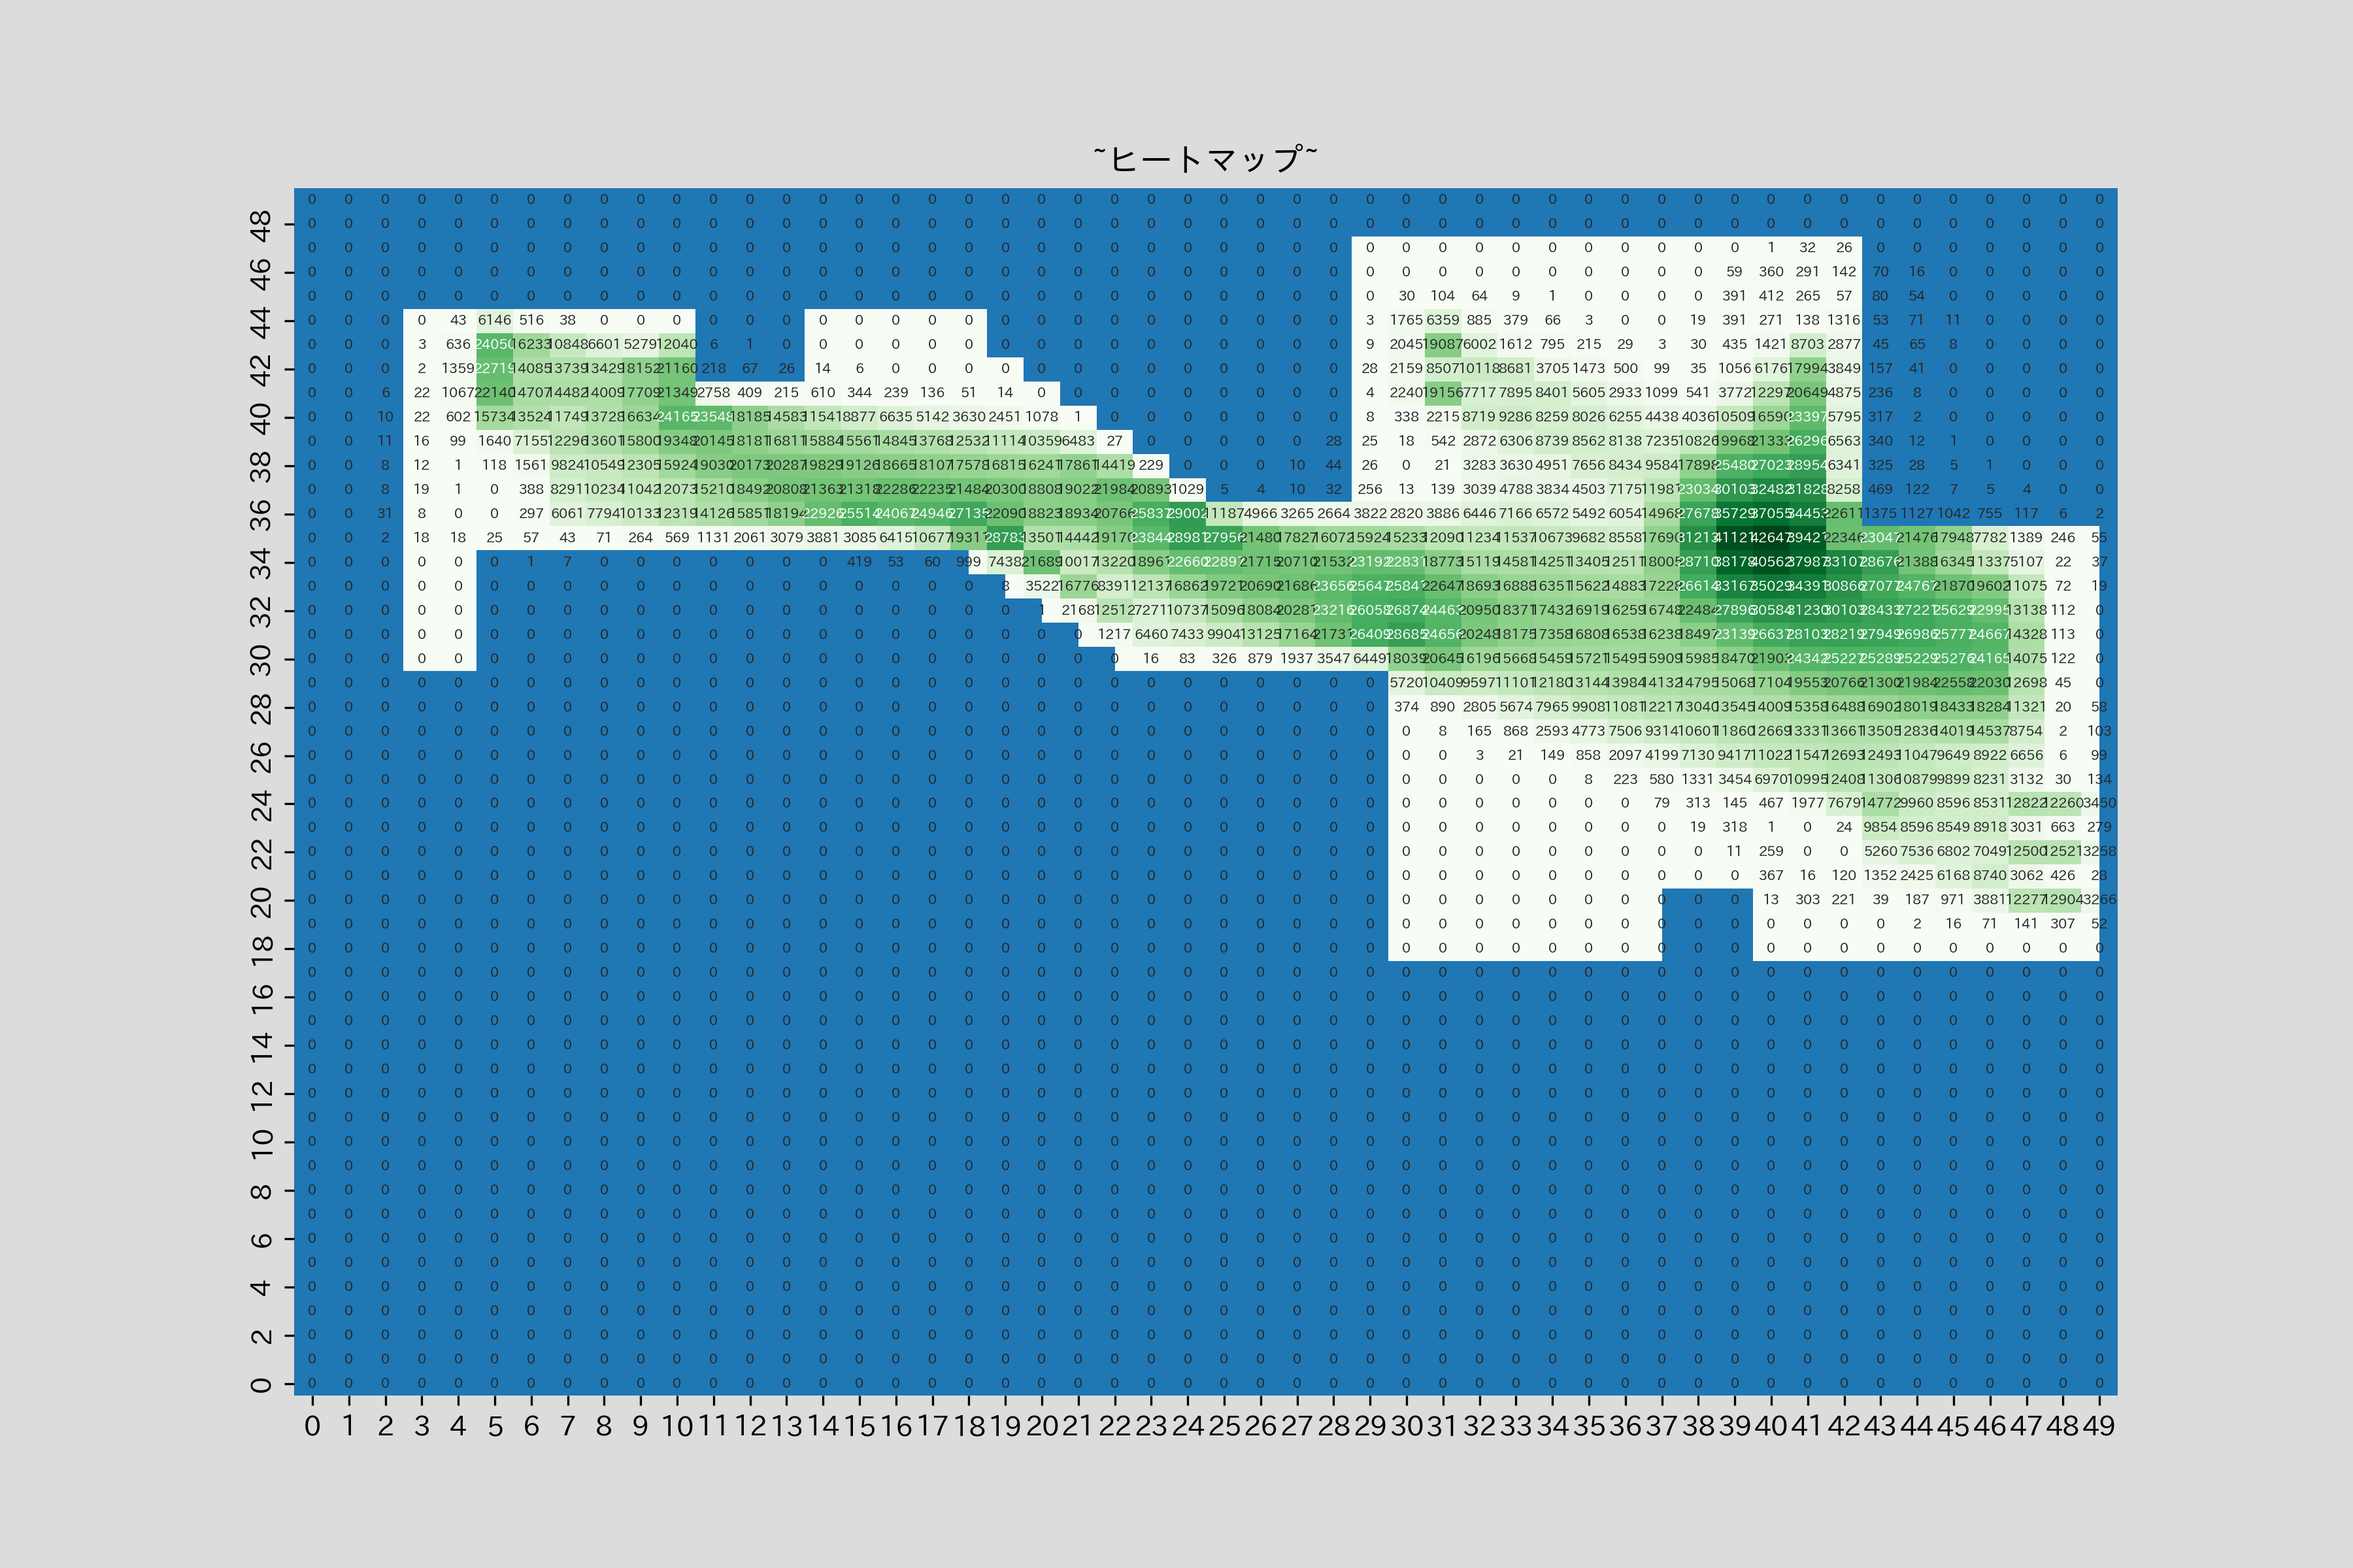
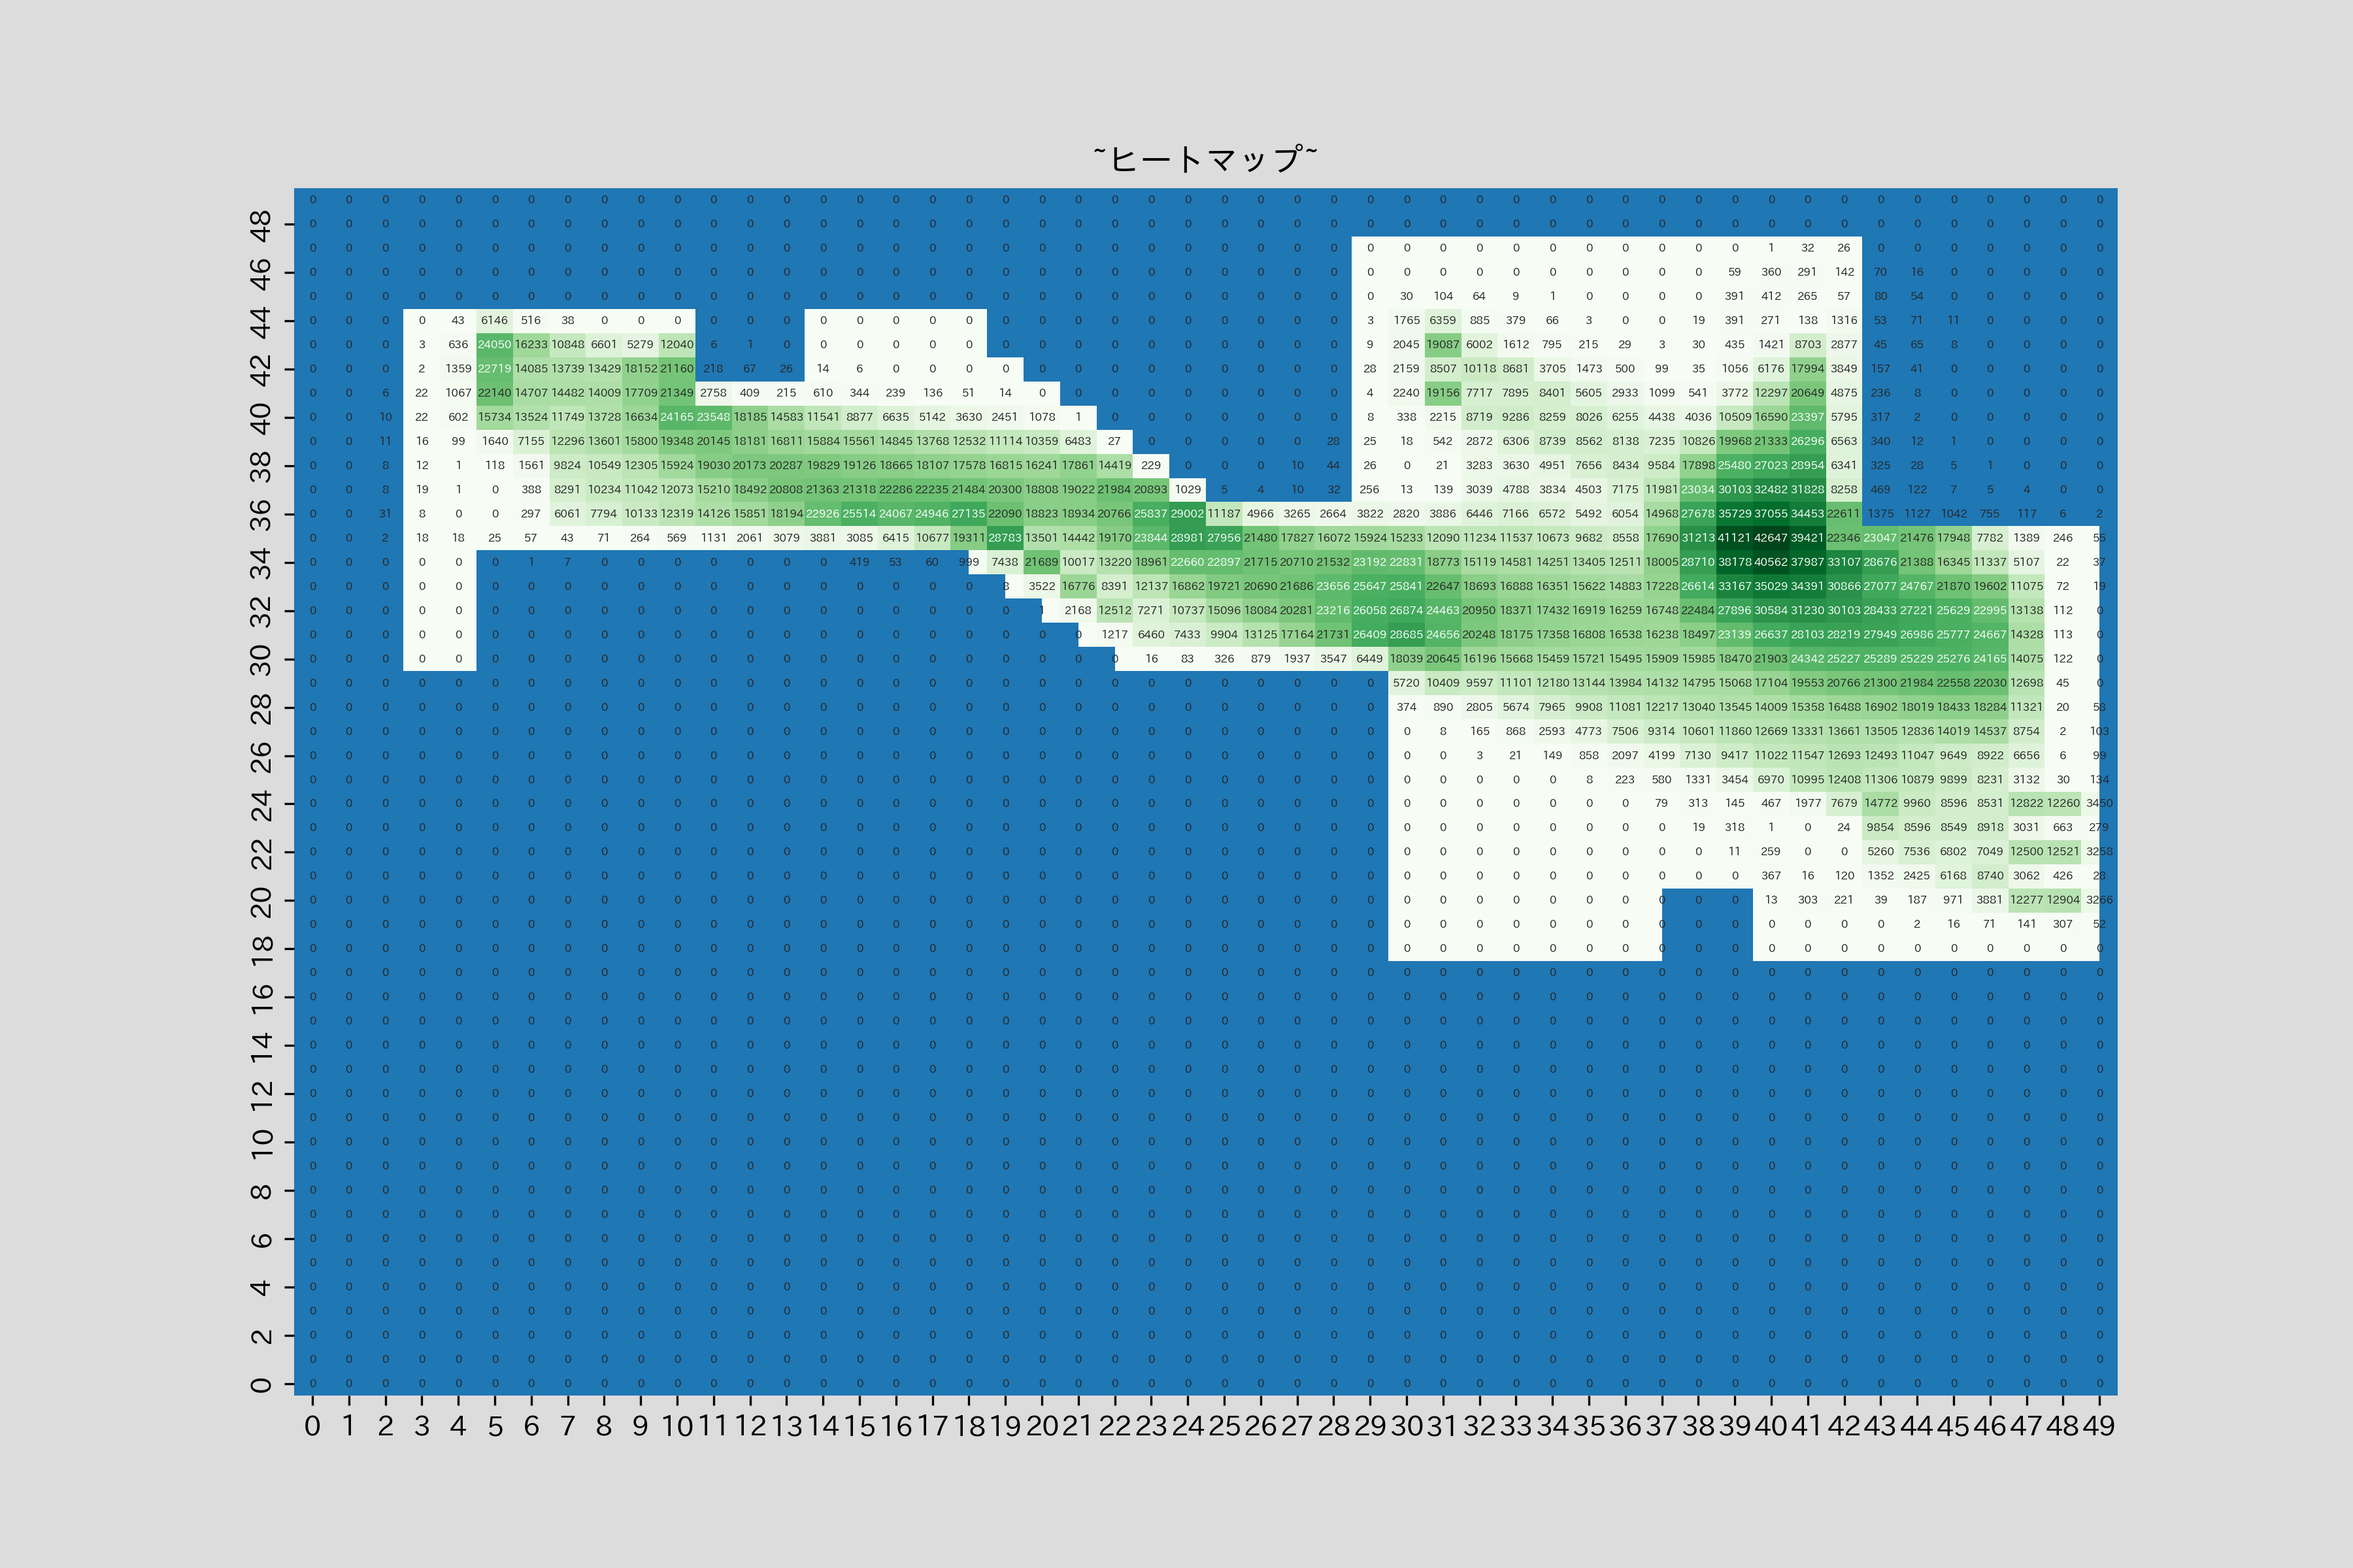
aw16

Changed region(s): [[0.1867, 0.1562, 0.9022, 0.5938]]

diff --git a/gap_morning.py b/gap_morning.py
@@ -8,8 +8,8 @@ import numpy as np
 from result_morning import *
 
 type = "result_morning"
-now = aw13
-now_string = "aw13"
+now = aw16
+now_string = "aw16"
 
 
 def HeatmappingNumber(now_agents_positions, walls, fig_name):    
